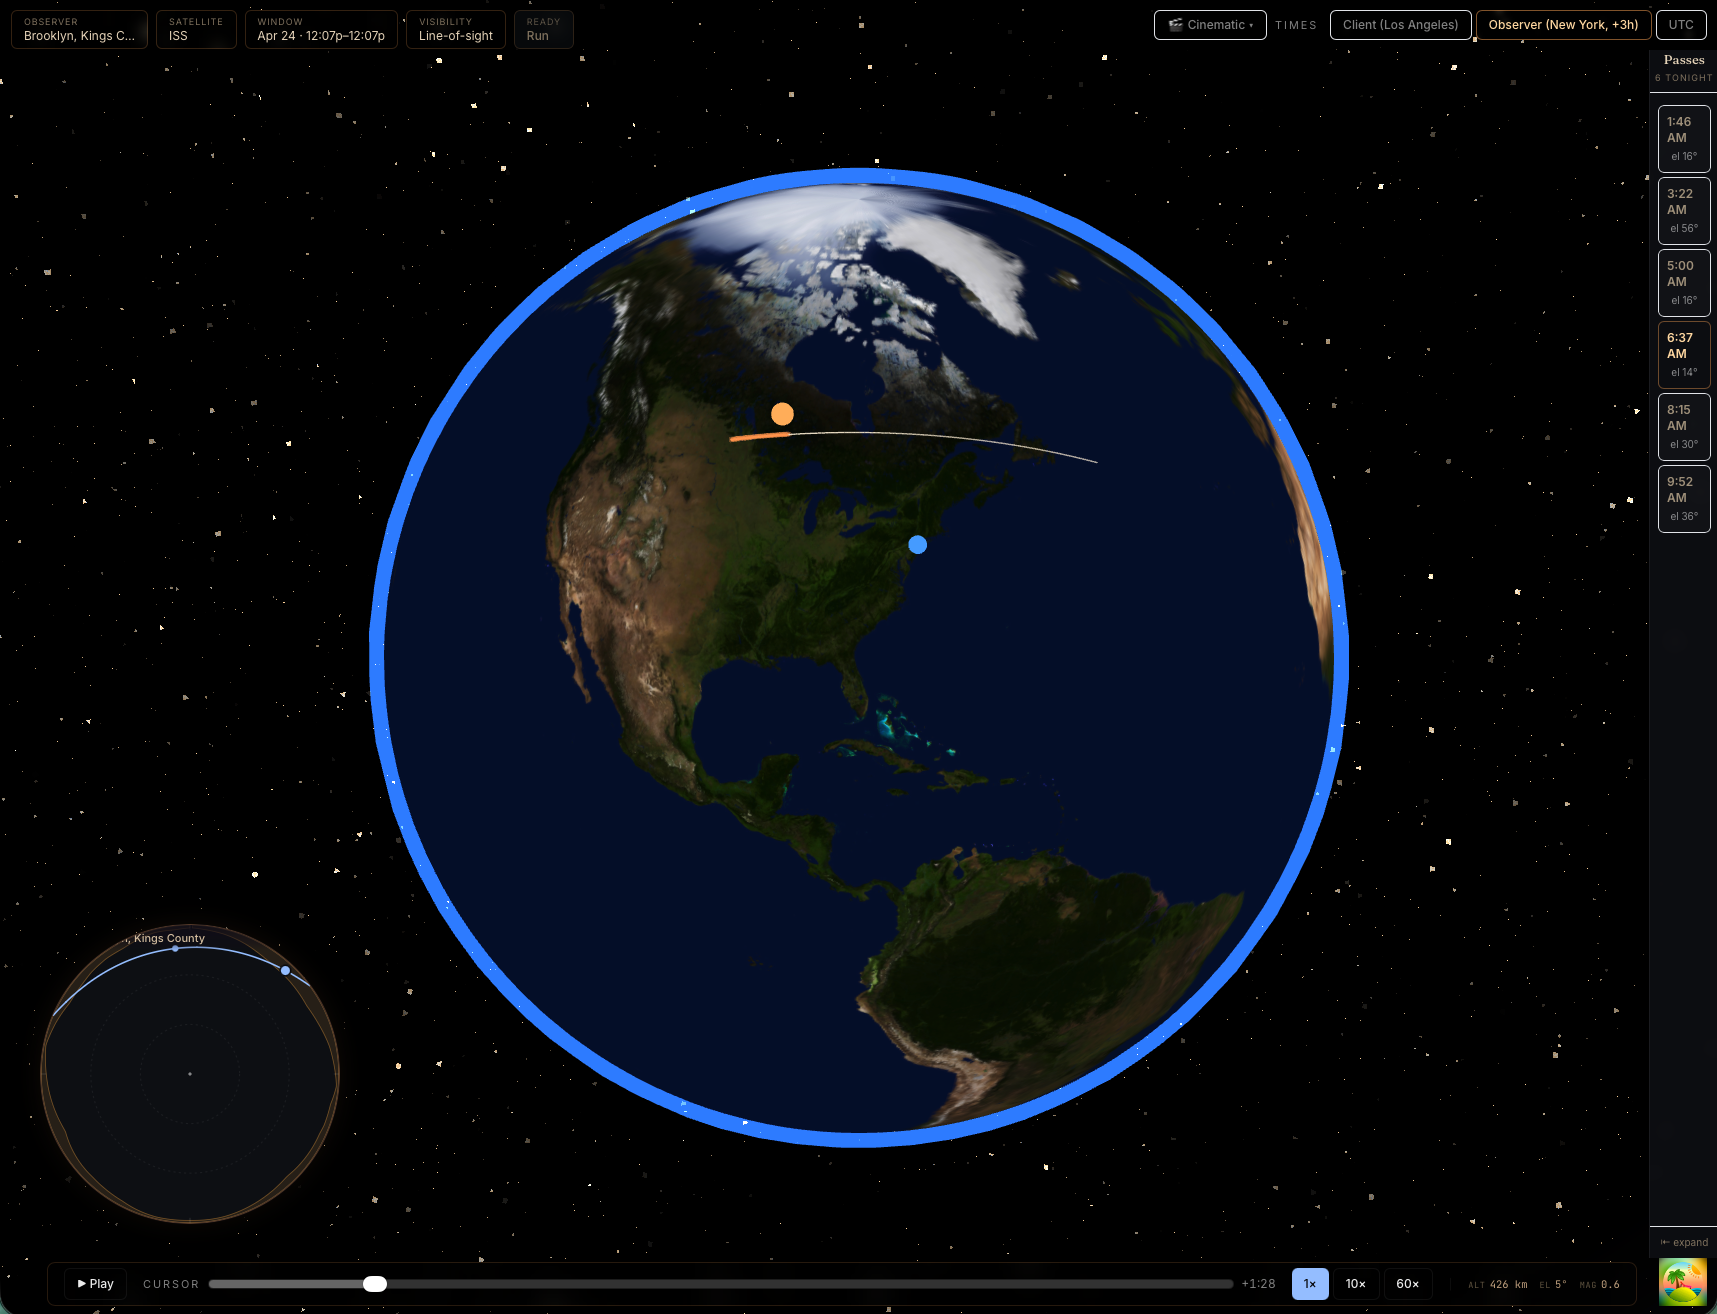
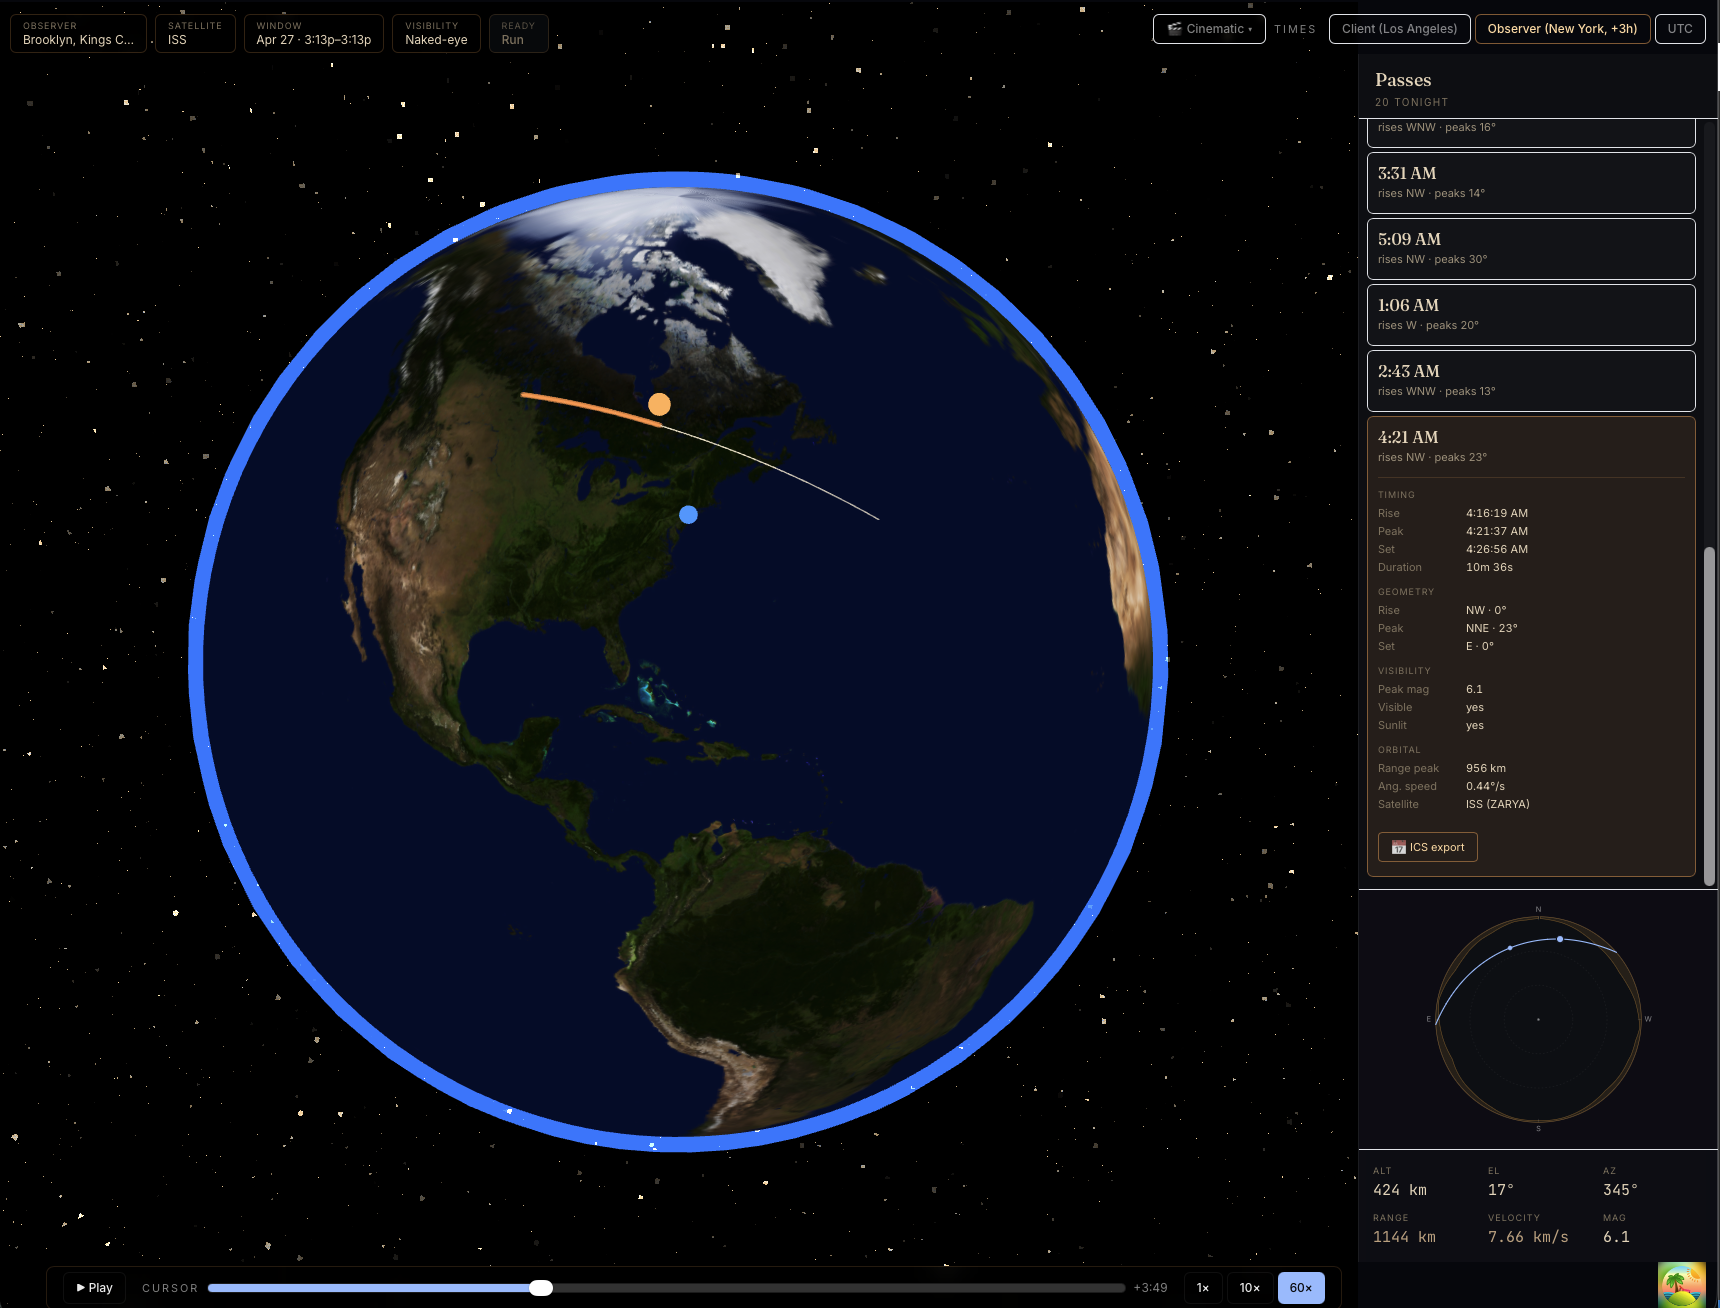
docs: bump README to v0.8.0 with refreshed screenshots

diff --git a/README.md b/README.md
@@ -5,11 +5,9 @@ Runs entirely on your machine: skyfield + FastAPI backend, React + Three.js
 frontend, zero cloud dependencies beyond free data sources (Celestrak TLEs,
 OpenTopography DEM tiles, OSM map tiles).
 
-**Version:** v0.7.0 — Observatory aesthetic (Fraunces / Inter / JetBrains
-Mono typography, amber-gold accent), procedural Milky Way starfield,
-refined atmosphere, redesigned observer-elevation field, and a top-left
-row of config chips (Observer · Satellite · Window · Visibility · Run)
-replacing the cinematic-mode left drawer.
+**Version:** v0.8.0 — Engine accuracy upgrade (atmospheric refraction
+applied to altitudes and rise/set events; range, peak angular speed,
+and naked-eye visibility classification now exposed per pass).
 
 ![Earth view with playback](docs/screenshots/earth-view.png)
 
